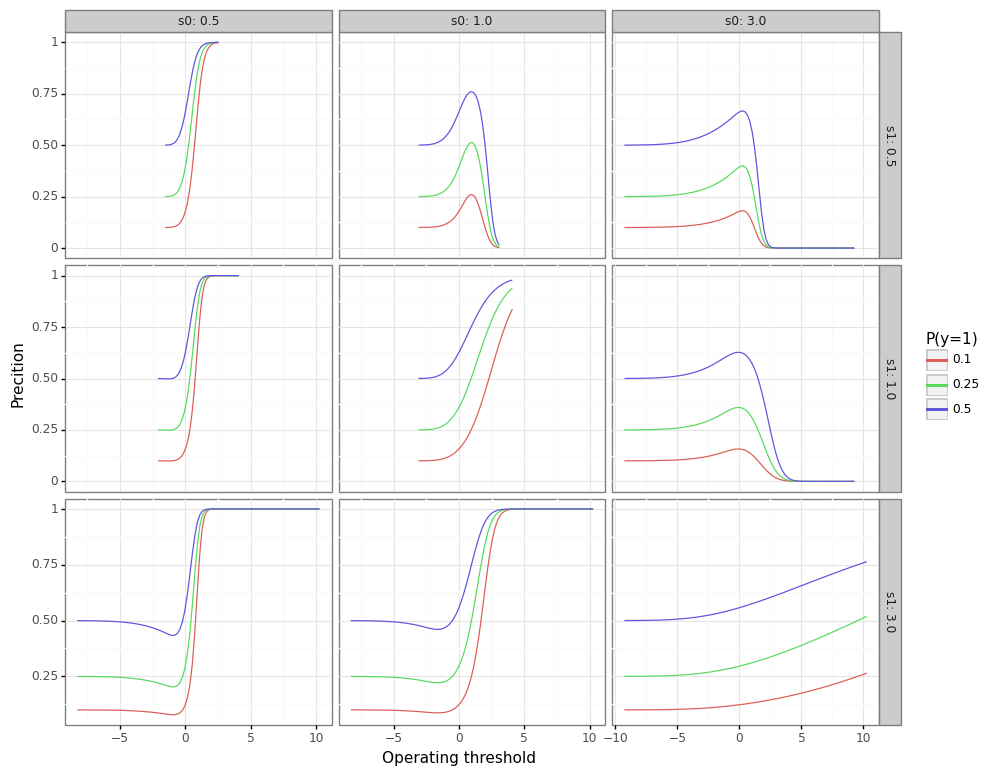
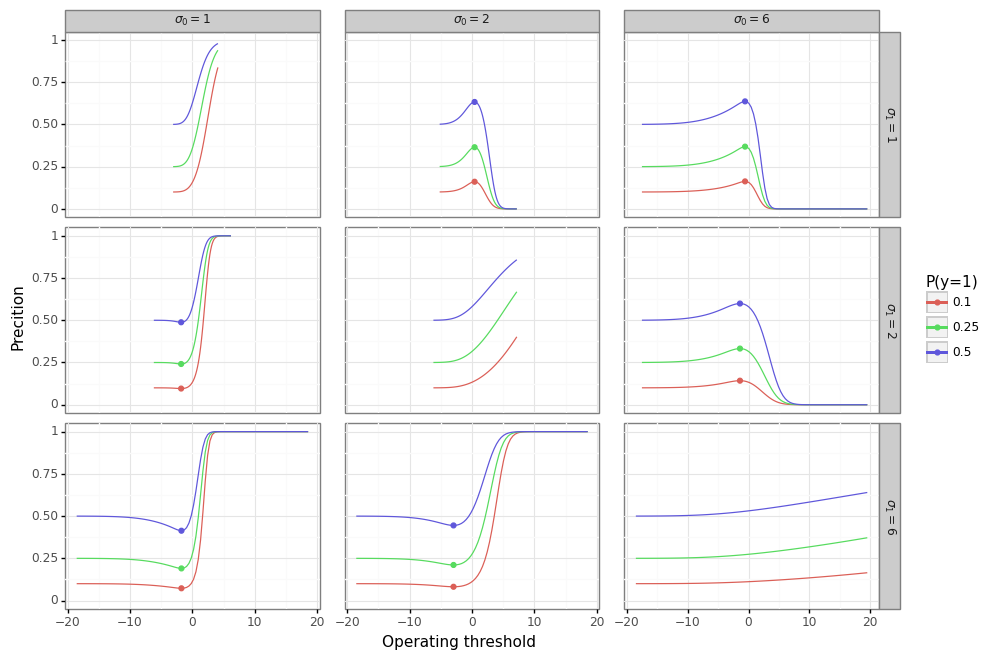
updating precision curve script; working precision theory

diff --git a/MLStatEval/utils/theory.py b/MLStatEval/utils/theory.py
@@ -99,6 +99,7 @@ def precision_threshold_range(mu1, mu0, sd1, sd0, p):
         # Monotonically increasing from p to 1
         # (-infty, t*):(p, p*), (t*, infty):(p*, 1)
         prec_min, prec_max = p, 1
+        thresh_local = None
     else:
         # Find the point where monotonicity changes
         lb, ub = root_finding_range(mu1, mu0, sd1, sd0)
@@ -114,19 +115,13 @@ def precision_threshold_range(mu1, mu0, sd1, sd0, p):
         else:   # sd1 > sd0
             # Monotonically decreasing from p to p_min, then monotonically increasing from p_min to 1
             # (-infty, t_low):(p, p_low), (t_low,t*):(p_low, p*), (t*,infty):(p*,1)
+            assert prec_local < p, 'huh? prec_min should be less than p!'
             prec_min = prec_local
             prec_max = 1
-            assert prec_local < p, 'huh? prec_min should be less than p!'
-    return prec_min, prec_max
+    return prec_min, prec_max, thresh_local
 
 
-# mu1, mu0 = 1, 0
-# sd1, sd0 = 1, 3
-# p = 0.5
-# n=4; target=0.6; xtol=1e-5
-
-
-def precision_to_threshold(target, mu1, mu0, sd1, sd0, p, w=0.25):
+def precision_to_threshold(target, mu1, mu0, sd1, sd0, p, w=0.25, xtol=1e-5):
     """
     Use root finding to map a target precision to an oracle threshold
     Depending on the relative variances, not all solutions exist
@@ -138,8 +133,9 @@ def precision_to_threshold(target, mu1, mu0, sd1, sd0, p, w=0.25):
     p:                  Class balance P(y == 1)
     w:                  How to weight x0/x1 relative to (lb, ub)
     """
+    assert (w > 0) & (w < 0.5), 'If weight is specificied need to be between (0,0.5)'
     # Get the precision ranges
-    prec_min, prec_max = precision_threshold_range(mu1, mu0, sd1, sd0, p)
+    prec_min, prec_max, thresh_change = precision_threshold_range(mu1, mu0, sd1, sd0, p)
     assert (target >= prec_min) & (target <= prec_max), 'error! precision target must be between (%0.3f, %0.3f)' % (prec_min, prec_max)
     # Threshold search will depend on variance conditions
     var_eq = (sd1 == sd0)
@@ -150,22 +146,23 @@ def precision_to_threshold(target, mu1, mu0, sd1, sd0, p, w=0.25):
     else:
         if sd0 > sd1:
             if (target >= p) & (target <= prec_max):
-                # If the target is between (p, prec_max), then we want to pick a small threshold
-                ub = thresh_max
-                x0 = 1
-                0.75*lb+0.25*thresh_max
+                # If target is between [p, prec_max], pick a smaller thresold
+                ub = thresh_change
             else:
                 # If the target is less than p, pick a larger threshold
-                lb = thresh_max
-                x0 = 2
+                lb = thresh_change
         else:  # sd1 > sd0
-            x0, x1 = 1, 1
-
-    # prec_hat = threshold_to_precision(threshold_target, mu1, mu0, sd1, sd0, p)
-    # assert np.abs(prec_hat - target) < xtol, 'Tolereance not found!'
-    # print(prec_hat);print(threshold_target)
-    # return threshold_target
+            if target > p:
+                # If target is between (p, 1], pick a larget threshold
+                lb = thresh_change
+            else:
+                # If starget is between [prec_min, p], pick a smaller threshold
+                ub = thresh_change
+        # Adjust trial points to something between lb/ub
+        x0 = (1-w)*lb + w*ub
+        x1 = w*lb + (1-w)*ub
+    thresh_hat = root_wrapper(f=err_precision_target, args=(target, mu1, mu0, sd1, sd0, p), x0=x0, x1=x1, lb=lb, ub=ub, method='brentq')
+    prec_hat = threshold_to_precision(thresh_hat, mu1, mu0, sd1, sd0, p)
+    assert np.abs(prec_hat - target) < xtol, 'Tolereance not found!'
+    return thresh_hat
     
-
-
-

diff --git a/MLStatEval/simulations/p3_precision.py b/MLStatEval/simulations/p3_precision.py
@@ -1,1 +1,70 @@
 # Script to generate plots and explore various aspects of precision
+import os
+import pathlib
+import numpy as np
+import pandas as pd
+import plotnine as pn
+
+# Internal modules
+from MLStatEval.theory import gaussian_mixture
+from MLStatEval.utils.utils import gg_save, df_float2int
+from MLStatEval.utils.theory import precision_threshold_range
+
+# https://arxiv.org/pdf/1810.08635.pdf
+# https://icml.cc/Conferences/2009/papers/309.pdf
+# https://arxiv.org/pdf/1206.4667.pdf
+
+# Set up directories
+dir_here = pathlib.Path(__file__).parent
+dir_figures = os.path.join(dir_here, 'figures')
+
+##################################
+# ---- (1) PRECISION CURVES ---- #
+
+# Provide some examples of precision/threshold curves based on different parameter combinations
+
+mu1, mu0 = 1, 0
+p_seq = [0.1, 0.25, 0.5]
+sd0_seq = [1, 2, 6]
+sd1_seq = [1, 2, 6]
+cn_gg = ['p','sd0', 'sd1']
+dist = gaussian_mixture()
+holder_pr, holder_points = [], []
+for p in p_seq:
+    for sd0 in sd0_seq:
+        for sd1 in sd1_seq:
+            dist.set_params(p, mu1, mu0, sd1, sd0)
+            points = precision_threshold_range(mu1, mu0, sd1, sd0, p)
+            points = np.atleast_2d((p, sd0, sd1) + points)
+            tmp_pr_curve = dist.gen_pr_curve().assign(p=p, sd0=sd0, sd1=sd1)
+            holder_points.append(points)
+            holder_pr.append(tmp_pr_curve)
+res_ppv = pd.concat(holder_pr).reset_index(drop=True)
+res_ppv[cn_gg] = res_ppv[cn_gg].astype(str)
+# Combine points
+res_points = pd.DataFrame(np.vstack(holder_points).astype(float))
+res_points = res_points.dropna().reset_index(drop=True)
+res_points.columns = cn_gg + ['prec_min', 'prec_max', 'thresh']
+df_float2int(res_points)
+res_points = res_points.assign(y=lambda x: np.where(x['prec_min'] > 0, x['prec_min'], x['prec_max']))
+res_points.drop(columns=['prec_min','prec_max'], inplace=True)
+res_points[cn_gg] = res_points[cn_gg].astype(str)
+
+
+# Create fancy labels
+di_sd1 = dict(zip(pd.Series(sd1_seq).astype(str), ['$\sigma_1=%i$' % s1 for s1 in sd1_seq]))
+di_sd0 = dict(zip(pd.Series(sd0_seq).astype(str), ['$\sigma_0=%i$' % s0 for s0 in sd0_seq]))
+
+width = len(sd0_seq) * 3.5
+height = len(sd1_seq) * 2.5
+gg_ppv = (pn.ggplot(res_ppv,pn.aes(x='thresh',y='ppv',color='p')) + 
+    pn.theme_bw() + pn.geom_line() + 
+    pn.labs(x='Operating threshold',y='Precition') + 
+    pn.scale_color_discrete(name='P(y=1)') + 
+    pn.theme(panel_spacing_x=0.25, panel_spacing_y=0.1) + 
+    pn.geom_point(pn.aes(x='thresh',y='y'),data=res_points) + 
+    pn.facet_grid('sd1~sd0',labeller=pn.labeller(sd1=di_sd1, sd0=di_sd0),scales='free_x'))
+gg_save('gg_ppv.png', dir_figures, gg_ppv, width, height)
+
+
+print('~~~ End of p3_precision.py ~~~')

diff --git a/MLStatEval/theory.py b/MLStatEval/theory.py
@@ -57,7 +57,7 @@ class gaussian_mixture():
 
     def gen_roc_curve(self, n_points=500, ptail=1e-3):
         """
-        Generate sequence of scores within distribution of 0 and 1 class
+        Generate sequence a sensitivity/specificity trade-off points for a curve
 
         n_points:           Number of points to evaluate
         ptail:              What percentile in the tail to start/stop the sequence
@@ -69,6 +69,28 @@ class gaussian_mixture():
         spec = threshold_to_specificity(s_seq)
         res = pd.DataFrame({'thresh':s_seq, 'sens':sens, 'spec':spec})
         return res
+
+
+    def gen_pr_curve(self, n_points=100, ptail=0.001):
+        """
+        Generate a sequence of precison/recall trade-off points for a curve
+
+        n_points:           Number of points to evaluate
+        ptail:              What percentile in the tail to start/stop the sequence
+        """
+        z_alpha = norm.ppf(1-ptail)
+        # (i) Plotting ranges
+        plusminus = np.array([-1, 1])*z_alpha
+        b0 = self.mu1 + plusminus*self.sd0
+        b1 = self.mu0 + plusminus*self.sd1
+        lb = min(min(b0),min(b1))
+        ub = max(max(b0),max(b1))
+        thresh_seq = np.linspace(lb, ub, n_points)
+        ppv = threshold_to_precision(thresh_seq, self.mu1, self.mu0, self.sd1, self.sd0, self.p)
+        recall = threshold_to_sensitivity(thresh_seq, self.mu1, self.sd1)
+        res = pd.DataFrame({'thresh':thresh_seq, 'ppv':ppv, 'recall':recall})
+        return res
+
 
     def set_threshold(self, threshold):
         """

diff --git a/MLStatEval/simulations/run_threshold.py b/MLStatEval/simulations/run_threshold.py
@@ -5,7 +5,6 @@ import numpy as np
 import pandas as pd
 import plotnine as pn
 from funs_stats import get_CI
-from funs_prec import pr_curve
 from utils import gg_save
 from funs_threshold import tools_thresh
 
@@ -81,37 +80,6 @@ gg_quant = (pn.ggplot(tmp_res, pn.aes(x='thresh')) + pn.theme_bw() +
     pn.scale_x_continuous(limits=[-1.5, +2.5]))
 gg_save('gg_quant.png', dir_figures, gg_quant, width, height)
 
-
-##################################
-# ---- (2) PRECISION CURVES ---- #
-
-# https://arxiv.org/pdf/1810.08635.pdf
-# https://icml.cc/Conferences/2009/papers/309.pdf
-# https://arxiv.org/pdf/1206.4667.pdf
-
-
-mu1, mu0 = 1, 0
-p_seq = [0.1, 0.25, 0.5]
-s0_seq = [0.5, 1, 3]
-s1_seq = [0.5, 1, 3]
-cn_gg = ['p','s0']
-holder = []
-for p in p_seq:
-    for s0 in s0_seq:
-        for s1 in s1_seq:
-            tmp = pr_curve(mu1, p, mu0, s1, s0).assign(p=p, s0=s0, s1=s1)
-            holder.append(tmp)
-res_ppv = pd.concat(holder).reset_index(drop=True)
-res_ppv[cn_gg] = res_ppv[cn_gg].astype(str)
-
-width = len(s0_seq) * 3.5
-height = len(s1_seq) * 3.0
-gg_ppv = (pn.ggplot(res_ppv,pn.aes(x='thresh',y='ppv',color='p')) + 
-    pn.theme_bw() + pn.geom_line() + 
-    pn.labs(x='Operating threshold',y='Precition') + 
-    pn.scale_color_discrete(name='P(y=1)') + 
-    pn.facet_grid('s1~s0',labeller=pn.label_both,scales='free'))
-gg_save('gg_ppv.png', dir_figures, gg_ppv, width, height)
 
 ##################################
 # ---- (X) DIABETES DATASET ---- #

diff --git a/MLStatEval/utils/utils.py b/MLStatEval/utils/utils.py
@@ -111,6 +111,17 @@ def grid_save(fn, fold, gg):
         os.remove(path)
     gg.savefig(path)
 
+# Convert float to integer columns if possible
+def df_float2int(df):
+    assert isinstance(df, pd.DataFrame), 'df needs to be a DataFrame'
+    cn_float = df.columns[(df.dtypes == float).values]
+    if len(cn_float) > 0:
+        idx_int = (df[cn_float] == df[cn_float].fillna(np.pi).astype(int)).all(0)
+        cn_int = list(idx_int[idx_int == True].index)
+        if len(cn_int) > 0:
+            df[cn_int] = df[cn_int].astype(int)
+    
+
 # Interpolate values for some dataframe
 def interp_df(df, cn_y, cn_x, target_y, *groups):
     # df=thresh_match; cn_x='val'; cn_y='thresh'; target_y=1.06; groups=('sim',)
